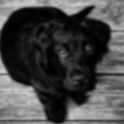
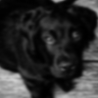
Update convolution to fix memory issue in parallel operation

diff --git a/parallel/src/convolution.cpp b/parallel/src/convolution.cpp
@@ -53,46 +53,56 @@ void Convolution::createVerticalEdgeKernel(const int size)
   }
 }
 
-void Convolution::applyConvolution(const std::vector<std::vector<unsigned char>>& input, std::vector<std::vector<unsigned char>>& output)
+void Convolution::applyConvolution(const unsigned char* input_image, unsigned char* output, const int width, const int height)
 {
-  int width = input[0].size();
-  int height = input.size();
+  const int output_width = width - kernelSize_ + 1;
+  const int output_height = height - kernelSize_ + 1;
+  const int kernel_size = kernelSize_;
+
+  float* flat_kernel = new float[kernel_size * kernel_size];
+
+  // Flatten kernel for memory safety
+  for (int i = 0; i < kernel_size; i++)
+  {
+    for (int j = 0; j < kernel_size; j++)
+    {
+      flat_kernel[i * kernel_size + j] = kernel_[i][j];
+    }
+  }
 
   // Loop through each pixel in the input image starting from the center of the kernel
   // Padding is not applied, so the first pixel/last pixels used will be (kernelSize_ / 2) away from the edge
-  #pragma acc seq
-  for (int pix_x = 0; pix_x < width - kernelSize_ + 1; ++pix_x)
+  #pragma acc parallel loop collapse(2) copyin(input_image[0:(width*height)], flat_kernel[0:(kernel_size*kernel_size)]) copyout(output[0:(output_width*output_height)])
+  for (int pix_row = 0; pix_row < output_height; ++pix_row)
   {
-    for (int pix_y = 0; pix_y < height - kernelSize_ + 1; ++pix_y)
+    for (int pix_col = 0; pix_col < output_width; ++pix_col)
     {
       float sum = 0.0f;
 
       // For each pixel in the image, apply the convolution kernel to compute the output value
-      for (int kernel_x = 0; kernel_x < kernelSize_; ++kernel_x)
+      #pragma acc loop seq
+      for (int kernel_row = 0; kernel_row < kernel_size; ++kernel_row)
       {
-        for (int kernel_y = 0; kernel_y < kernelSize_; ++kernel_y)
+        for (int kernel_col = 0; kernel_col < kernel_size; ++kernel_col)
         {
-          int row = pix_y + kernel_x;
-          int col = pix_x + kernel_y;
+          int row = pix_row + kernel_row;
+          int col = pix_col + kernel_col;
 
           // Check if the coordinates are within the image boundaries
           // If coordinates are OOB they are skipped
           if (col >= 0 && col < width && row >= 0 && row < height)
           {
-            sum += input[row][col] * kernel_[kernel_x][kernel_y];
+            unsigned char input_pix = input_image[(width * row) + col];
+            sum += input_pix * flat_kernel[(kernel_row * kernel_size) + kernel_col];
           }
         }
       }
 
       // Place the computed value in the output image
-      try
-      {
-        output[pix_y][pix_x] = static_cast<unsigned char>(std::round(sum));
-      }
-      catch (const std::exception& e)
-      {
-        std::cerr << "Error assigning value to output at (" << pix_x << ", " << pix_y << "): " << e.what() << std::endl;
-      }
+      output[(pix_row * output_width) + pix_col] = static_cast<unsigned char>(static_cast<int>(sum + 0.5f));
     }
   }
+
+  delete[] flat_kernel;
+  flat_kernel = nullptr;
 }

diff --git a/serial/src/convolution.cpp b/serial/src/convolution.cpp
@@ -53,45 +53,54 @@ void Convolution::createVerticalEdgeKernel(const int size)
   }
 }
 
-void Convolution::applyConvolution(const std::vector<std::vector<unsigned char>>& input, std::vector<std::vector<unsigned char>>& output)
+void Convolution::applyConvolution(const unsigned char* input_image, unsigned char* output, const int width, const int height)
 {
-  int width = input[0].size();
-  int height = input.size();
+  const int output_width = width - kernelSize_ + 1;
+  const int output_height = height - kernelSize_ + 1;
+  const int kernel_size = kernelSize_;
+
+  float* flat_kernel = new float[kernel_size * kernel_size];
+
+  // Flatten kernel for memory safety
+  for (int i = 0; i < kernel_size; i++)
+  {
+    for (int j = 0; j < kernel_size; j++)
+    {
+      flat_kernel[i * kernel_size + j] = kernel_[i][j];
+    }
+  }
 
   // Loop through each pixel in the input image starting from the center of the kernel
   // Padding is not applied, so the first pixel/last pixels used will be (kernelSize_ / 2) away from the edge
-  for (int pix_x = 0; pix_x < width - kernelSize_ + 1; ++pix_x)
+  for (int pix_row = 0; pix_row < output_height; ++pix_row)
   {
-    for (int pix_y = 0; pix_y < height - kernelSize_ + 1; ++pix_y)
+    for (int pix_col = 0; pix_col < output_width; ++pix_col)
     {
       float sum = 0.0f;
 
       // For each pixel in the image, apply the convolution kernel to compute the output value
-      for (int kernel_x = 0; kernel_x < kernelSize_; ++kernel_x)
+      for (int kernel_row = 0; kernel_row < kernel_size; ++kernel_row)
       {
-        for (int kernel_y = 0; kernel_y < kernelSize_; ++kernel_y)
+        for (int kernel_col = 0; kernel_col < kernel_size; ++kernel_col)
         {
-          int row = pix_y + kernel_x;
-          int col = pix_x + kernel_y;
+          int row = pix_row + kernel_row;
+          int col = pix_col + kernel_col;
 
           // Check if the coordinates are within the image boundaries
           // If coordinates are OOB they are skipped
           if (col >= 0 && col < width && row >= 0 && row < height)
           {
-            sum += input[row][col] * kernel_[kernel_x][kernel_y];
+            unsigned char input_pix = input_image[(width * row) + col];
+            sum += input_pix * flat_kernel[(kernel_row * kernel_size) + kernel_col];
           }
         }
       }
 
       // Place the computed value in the output image
-      try
-      {
-        output[pix_y][pix_x] = static_cast<unsigned char>(std::round(sum));
-      }
-      catch (const std::exception& e)
-      {
-        std::cerr << "Error assigning value to output at (" << pix_x << ", " << pix_y << "): " << e.what() << std::endl;
-      }
+      output[(pix_row * output_width) + pix_col] = static_cast<unsigned char>(static_cast<int>(sum + 0.5f));
     }
   }
+
+  delete[] flat_kernel;
+  flat_kernel = nullptr;
 }

diff --git a/parallel/src/main.cpp b/parallel/src/main.cpp
@@ -68,7 +68,7 @@ int main(int argc, char* argv[]) {
   std::cout << "Using kernel with size: " << kernelSize << " and sigma: " << sigma << std::endl;
 
   unsigned char* stbi_image = nullptr;
-  unsigned char* blurred_image = nullptr;
+  unsigned char* output_image = nullptr;
 
   utilities::loadImage(baseFilePath, stbi_image, true);
 
@@ -77,30 +77,32 @@ int main(int argc, char* argv[]) {
 
   channels = 1;
 
-  auto reshaped_image = utilities::reshapeArrayTwoDim(stbi_image, width, height, 1);
-
   Convolution convolution = Convolution(kernelSize);
   convolution.createGaussianKernel(kernelSize, sigma);
 
   int outputWidth = width - kernelSize + 1;
   int outputHeight = height - kernelSize + 1;
 
-  std::vector<std::vector<unsigned char>> output(outputHeight, std::vector<unsigned char>(outputWidth));
+  // Allocate memory for the output image
+  output_image = new unsigned char[outputWidth * outputHeight * channels];
 
   // Start timing the convolution operation
   auto start = std::chrono::high_resolution_clock::now();
-  convolution.applyConvolution(reshaped_image, output);
+  convolution.applyConvolution(stbi_image, output_image, width, height);
   auto end = std::chrono::high_resolution_clock::now();
 
   std::cout << "Convolution operation completed." << std::endl;
 
-  utilities::flattenArray(output, blurred_image, outputWidth, outputHeight, 1);
+  utilities::saveImage("./parallel/outputs/" + imageName + "_blurred.jpg", output_image, outputWidth, outputHeight, 1);
 
-  utilities::saveImage("./parallel/outputs/" + imageName + "_blurred.jpg", blurred_image, outputWidth, outputHeight, 1);
+  // Free memory
+  stbi_image_free(stbi_image);
+  delete[] output_image;
+  output_image = nullptr;
 
   // Calculate the duration of the convolution operation
   std::chrono::duration<double, std::milli> duration = end - start;
-  std::cout << "Convolution operation took " << duration.count() << " milliseconds." << std::endl;
+  std::cout << "Parallel convolution operation took " << duration.count() << " milliseconds." << std::endl;
 
   return 0;
 }

diff --git a/serial/src/main.cpp b/serial/src/main.cpp
@@ -68,7 +68,7 @@ int main(int argc, char* argv[]) {
   std::cout << "Using kernel with size: " << kernelSize << " and sigma: " << sigma << std::endl;
 
   unsigned char* stbi_image = nullptr;
-  unsigned char* blurred_image = nullptr;
+  unsigned char* output_image = nullptr;
 
   utilities::loadImage(baseFilePath, stbi_image, true);
 
@@ -77,30 +77,32 @@ int main(int argc, char* argv[]) {
 
   channels = 1;
 
-  auto reshaped_image = utilities::reshapeArrayTwoDim(stbi_image, width, height, 1);
-
   Convolution convolution = Convolution(kernelSize);
   convolution.createGaussianKernel(kernelSize, sigma);
 
   int outputWidth = width - kernelSize + 1;
   int outputHeight = height - kernelSize + 1;
 
-  std::vector<std::vector<unsigned char>> output(outputHeight, std::vector<unsigned char>(outputWidth));
+  // Allocate memory for the output image
+  output_image = new unsigned char[outputWidth * outputHeight * channels];
 
   // Start timing the convolution operation
   auto start = std::chrono::high_resolution_clock::now();
-  convolution.applyConvolution(reshaped_image, output);
+  convolution.applyConvolution(stbi_image, output_image, width, height);
   auto end = std::chrono::high_resolution_clock::now();
 
   std::cout << "Convolution operation completed." << std::endl;
 
-  utilities::flattenArray(output, blurred_image, outputWidth, outputHeight, 1);
+  utilities::saveImage("./serial/outputs/" + imageName + "_blurred.jpg", output_image, outputWidth, outputHeight, 1);
 
-  utilities::saveImage("./serial/outputs/" + imageName + "_blurred.jpg", blurred_image, outputWidth, outputHeight, 1);
+  // Free memory
+  stbi_image_free(stbi_image);
+  delete[] output_image;
+  output_image = nullptr;
 
   // Calculate the duration of the convolution operation
   std::chrono::duration<double, std::milli> duration = end - start;
-  std::cout << "Convolution operation took " << duration.count() << " milliseconds." << std::endl;
+  std::cout << "Serial convolution operation took " << duration.count() << " milliseconds." << std::endl;
 
   return 0;
 }

diff --git a/parallel/include/convolution.hpp b/parallel/include/convolution.hpp
@@ -17,8 +17,10 @@ class Convolution {
     void createVerticalEdgeKernel(const int size = 3);
 
     void applyConvolution(
-      const std::vector<std::vector<unsigned char>>& input,
-      std::vector<std::vector<unsigned char>>& output
+      const unsigned char* input_image,
+      unsigned char* output,
+      const int width,
+      const int height
     );
 
   private:

diff --git a/serial/include/convolution.hpp b/serial/include/convolution.hpp
@@ -17,8 +17,10 @@ class Convolution {
     void createVerticalEdgeKernel(const int size = 3);
 
     void applyConvolution(
-      const std::vector<std::vector<unsigned char>>& input,
-      std::vector<std::vector<unsigned char>>& output
+      const unsigned char* input_image,
+      unsigned char* output,
+      const int width,
+      const int height
     );
 
   private:
